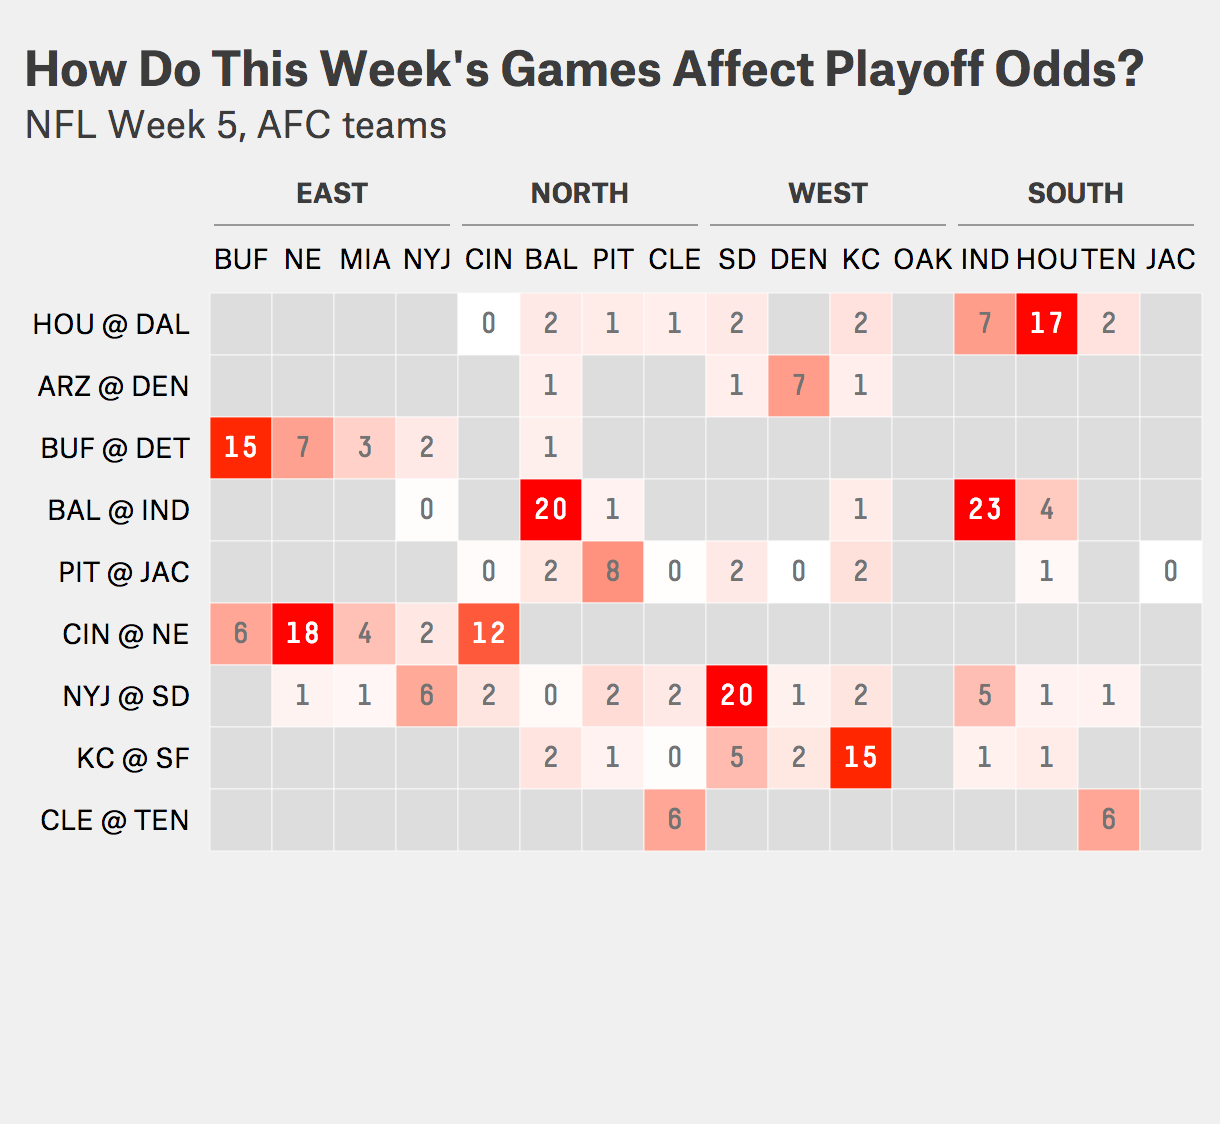
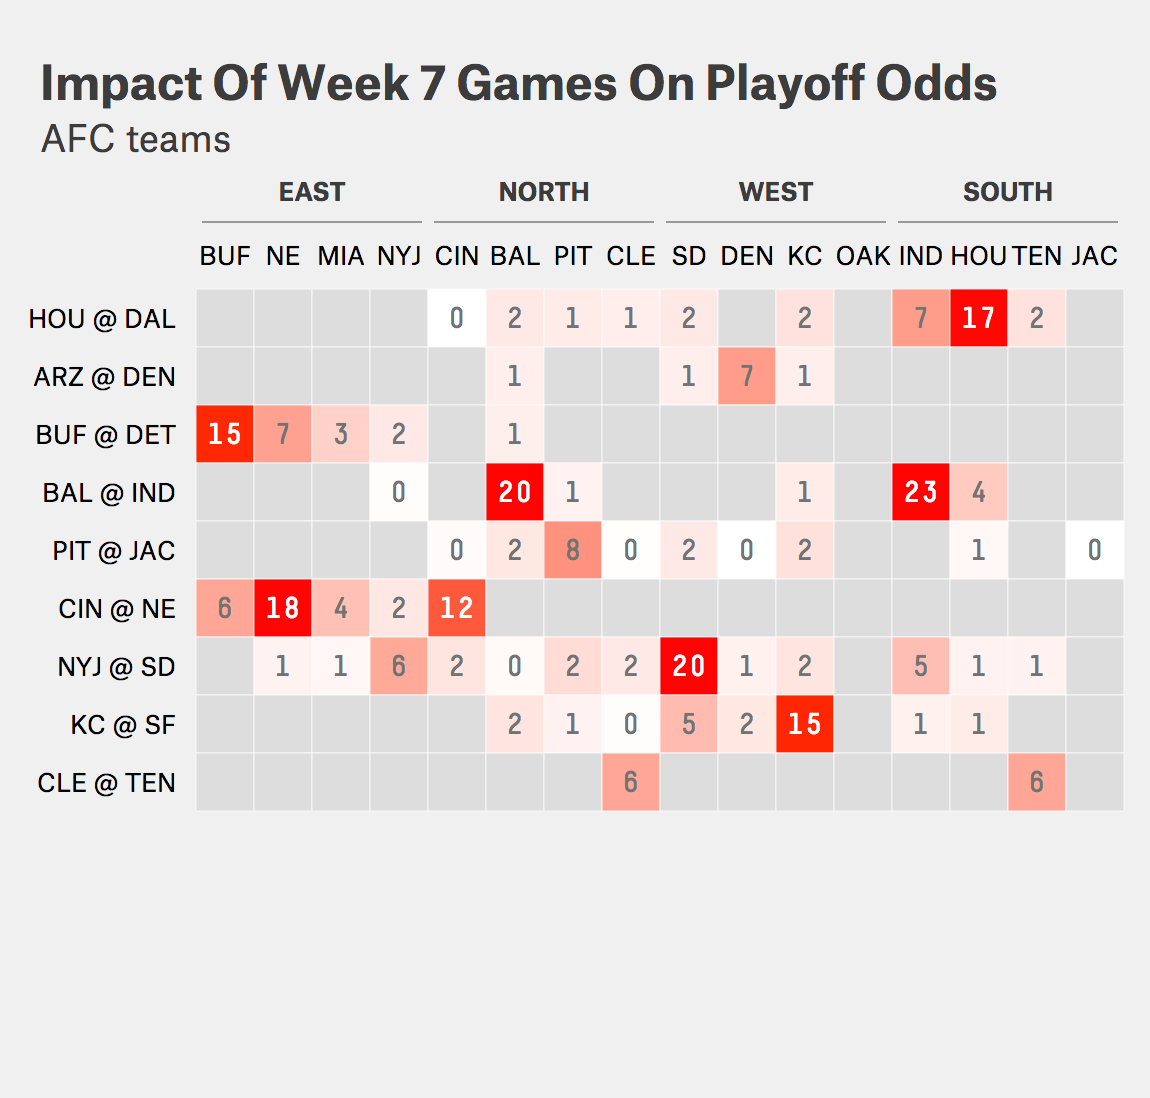
fit to 575px :(

diff --git a/d3_NFLv2/football.css b/d3_NFLv2/football.css
@@ -1,8 +1,12 @@
 /* BODY AND TITLE FORMATTING */
 
+body{
+  width: 575px;
+  margin: 0px;
+}
+
 .container {
-  width: 610px;
-  height: 562px;
+  height: 550px;
   background-color: #f0f0f0;
   color: #3c3c3c;
   font-family: AtlasGrotesk;
@@ -10,7 +14,6 @@
 }
 
 .title {
-  width: 610px;
   position: absolute;
   left: 20px;
   top: 15px;
@@ -34,9 +37,9 @@
 
 #divisionnames {
   font-weight: 700;
-  width: 496px;
+  width: 464px;
   position: relative;
-  left: 104px;
+  left: 98px;
   top: 87px;
   -webkit-transition: opacity 0.5s;
   -moz-transition: opacity 0.5;
@@ -45,7 +48,7 @@
 
 #divisionnames div {
   width: 25%;
-  font-size: 9.8pt;
+  font-size: 9.1pt;
   display: inline-block;
   text-align: center;
 }
@@ -70,7 +73,7 @@ rect.cell-border {
 text.mono {
   cursor: pointer;
   cursor: hand;
-  font-size: 9.8pt;
+  font-size: 9.1pt;
 }
 
 text.celllabel {
@@ -93,9 +96,9 @@ text.text-hover {
 
 #explanation {
   position: absolute;
-  top: 452px;
-  left: 115px;
-  width: 496px;
+  top: 430px;
+  left: 98px;
+  width: 464px;
   font-size: 18px;
   text-align: center;
   display: none;
@@ -147,7 +150,7 @@ a {
 .mobile-container {
   visibility: hidden;
   position: absolute;
-  top: 8px;
+  top: 0px;
   font-family: AtlasGrotesk;
   font-size: 3.8vw;
 }
@@ -178,7 +181,7 @@ a {
 }
 
 
-@media (max-width: 615px) {
+@media (max-width: 574px) {
   .container {
     visibility: hidden;
   }

diff --git a/d3_NFLv2/heatmap.js b/d3_NFLv2/heatmap.js
@@ -1,7 +1,7 @@
 //sortable heatmap codebase created by ianyfchang http://bl.ocks.org/ianyfchang/8119685//
 
-var margin = {top: 114, right: 2, bottom: 2, left: 105},
-  cellSize = 31;
+var margin = {top: 114, right: 2, bottom: 2, left: 98},
+  cellSize = 29;
   col_number = 16;
   row_number = 9;
   width = cellSize * col_number, 
@@ -272,7 +272,7 @@ function(error, data) {
         return hccol.indexOf(d.col) * cellSize + cellSize / 2;
       })
       .attr('y', function(d) {
-        return hcrow.indexOf(d.row) * cellSize + cellSize / 1.55;
+        return hcrow.indexOf(d.row) * cellSize + cellSize / 1.49;
       })
       .attr('class', function(d) {
         return 'celllabel cr'+(d.row - 1)+' cc'+(d.col - 1);
@@ -325,7 +325,7 @@ function(error, data) {
         });
       t.selectAll('.celllabel')
         .attr('y', function(d) {
-          return sorted.indexOf(d.row - 1) * cellSize + cellSize / 1.55;
+          return sorted.indexOf(d.row - 1) * cellSize + cellSize / 1.49;
         });
 
       t.selectAll('.rowLabel')

diff --git a/d3_NFLv2/index.html b/d3_NFLv2/index.html
@@ -12,8 +12,8 @@
     <div class='container'>
 
       <div class='title'>
-        <h1>How Do This Week's Games Affect Playoff Odds?</h1>
-        <h2>NFL Week 5, AFC teams</h2>
+        <h1>Impact Of Week 7 Games On Playoff Odds</h1>
+        <h2>AFC teams</h2>
       </div>
 
       <div id='divisionnames'>
@@ -37,7 +37,7 @@
           ><div id='number3'><span id='gap'>*</span></div>
         </div>
         <div class='labelsrow'>
-          <div id='label1'>Going into<br>Week 5</div
+          <div id='label1'>Going into<br>Week 7</div
           ><div id='label2'>If <span id='awayteam'>*</span> wins</div
           ><div id='label3'>If <span id='hometeam'>*</span> wins</div
           ><div id='label4'>Swing</div>
